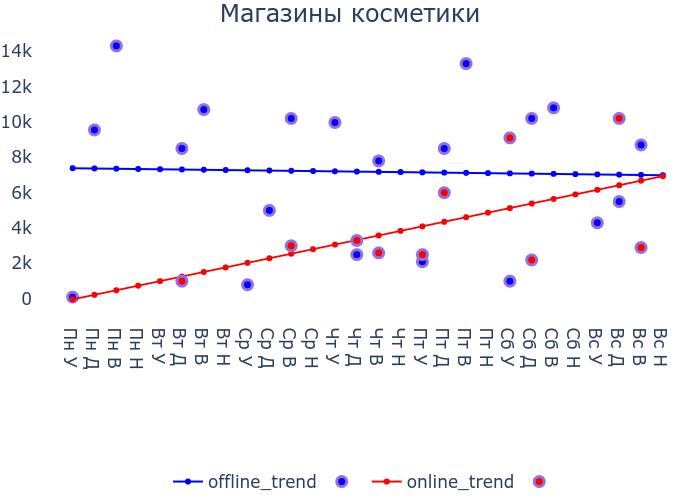
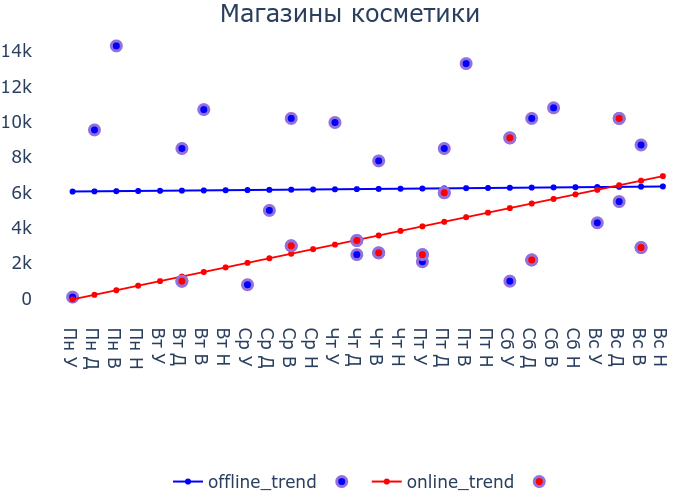
New graphs

Changed region(s): [[0.09, 0.33, 0.96, 0.39]]

diff --git a/mcc_graph.py b/mcc_graph.py
@@ -32,13 +32,10 @@ def data_time(category_data, category, normalize=True):
                                    "online_transaction_flg", "day_time"]]
     online = category_data[category_data["online_transaction_flg"] == "online"]
     offline = category_data[category_data["online_transaction_flg"] == "offline"]
-
     if normalize:
-        # # online = online[(np.abs(stats.zscore(online["transaction_amt"])) < 3)]
-        # # offline = offline[(np.abs(stats.zscore(offline["transaction_amt"])) < 3)]
         online = quantile_outliers(online, "transaction_amt")
         offline = quantile_outliers(offline, "transaction_amt")
-    if online.code.count() + offline.code.count() < 100:
+    if offline.code.count() < 100:
         return 0
     online = online.groupby("day_time").sum().reset_index()
     offline = offline.groupby("day_time").sum().reset_index()
@@ -61,10 +58,9 @@ def create_plot(data):
                 ('Воскресенье Утро', 25), ('Воскресенье День', 26), ('Воскресенье Вечер', 27),
                 ('Воскресенье Ночь', 28)])
     smth = {}
-    for  item , value in day.items():
+    for item, value in day.items():
         smth[shorts[item]] = value
     day = smth
-
 
     key = [i for i in range(1, 29)]
     key_day = day.keys()
@@ -77,19 +73,18 @@ def create_plot(data):
             continue
         data_mcc["day_time"] = data_mcc["day_time"].replace(shorts)
 
-
         offline = data_mcc.sort_values(by="day_time", key=kras)
-        # online = data_mcc[data_mcc["online_transaction_flg"] == 1].sort_values(by="day_time", key=kras)
+        online = data_mcc[data_mcc["online_transaction_flg"] == 1].sort_values(by="day_time", key=kras)
         x_offline = offline["day_time"].replace(day).values.reshape(len(offline["day_time"]), 1)
         y_offline = offline["transaction_amt"].values
 
-        # x_online = online["day_time"].replace(day).values.reshape(len(online["day_time"]), 1)
-        # y_online = online["transaction_amt"].values
+        x_online = online["day_time"].replace(day).values.reshape(len(online["day_time"]), 1)
+        y_online = online["transaction_amt"].values
 
         if np.size(x_offline):
             model_offline = LinearRegression().fit(x_offline, y_offline)
-        # if np.size(x_online):
-        #     model_online = LinearRegression().fit(x_online, y_online)
+        if np.size(x_online):
+            model_online = LinearRegression().fit(x_online, y_online)
 
         fig = go.Figure()
         # offline graph
@@ -108,12 +103,13 @@ def create_plot(data):
                                      marker=dict(color='Red')))
             fig.add_trace(go.Scatter(x=online["day_time"], y=online["transaction_amt"], mode='markers', name='',
                                      marker=dict(color='Red', size=10, line=dict(color='MediumPurple', width=3))))
+        mcc = " и ".join(mcc.split(", ")[:2])
 
         fig.update_layout(legend_orientation="h",
                           paper_bgcolor='#fff',
                           plot_bgcolor='#fff',
                           font_size=17,
-                          title=dict(text=" и ".join(mcc.split(", ")[:2]),
+                          title=dict(text=mcc.split("(")[0],
                                      xanchor="center",
                                      x=0.5,
                                      y=0.99),
@@ -125,7 +121,7 @@ def create_plot(data):
         print(mcc)
         fig.write_image(f"mcc_graphs/{mcc.replace('/', '|')}.png")
         # fig.write_image(f"{mcc.replace('/', '|')}.png")
-        # # fig.show()
+        # fig.show()
         # break
 
 

diff --git a/mcc_weak.py b/mcc_weak.py
@@ -123,12 +123,12 @@ def create_plot(data):
                                      marker=dict(color='Red')))
             fig.add_trace(go.Scatter(x=online["day_of_week"], y=online["transaction_amt"], mode='markers', name='',
                                      marker=dict(color='Red', size=10, line=dict(color='MediumPurple', width=3))))
-
+        mcc = " и ".join(mcc.split(", ")[:2])
         fig.update_layout(legend_orientation="h",
                           paper_bgcolor='#fff',
                           plot_bgcolor='#fff',
                           font_size=17,
-                          title=dict(text=" и ".join(mcc.split(", ")[:2]),
+                          title=dict(text=mcc.split("(")[0],
                                      xanchor="center",
                                      x=0.5,
                                      y=0.99),

diff --git a/mcc_mean.py b/mcc_mean.py
@@ -110,12 +110,12 @@ def create_plot(data):
                                      marker=dict(color='Red')))
             fig.add_trace(go.Scatter(x=online["day_time"], y=online["transaction_amt"], mode='markers', name='',
                                      marker=dict(color='Red', size=10, line=dict(color='MediumPurple', width=3))))
-
+        mcc = " и ".join(mcc.split(", ")[:2])
         fig.update_layout(legend_orientation="h",
                           paper_bgcolor='#fff',
                           plot_bgcolor='#fff',
                           font_size=17,
-                          title=dict(text=" и ".join(mcc.split(", ")[:2]),
+                          title=dict(text=mcc.split("(")[0],
                                      xanchor="center",
                                      x=0.5,
                                      y=0.99),
